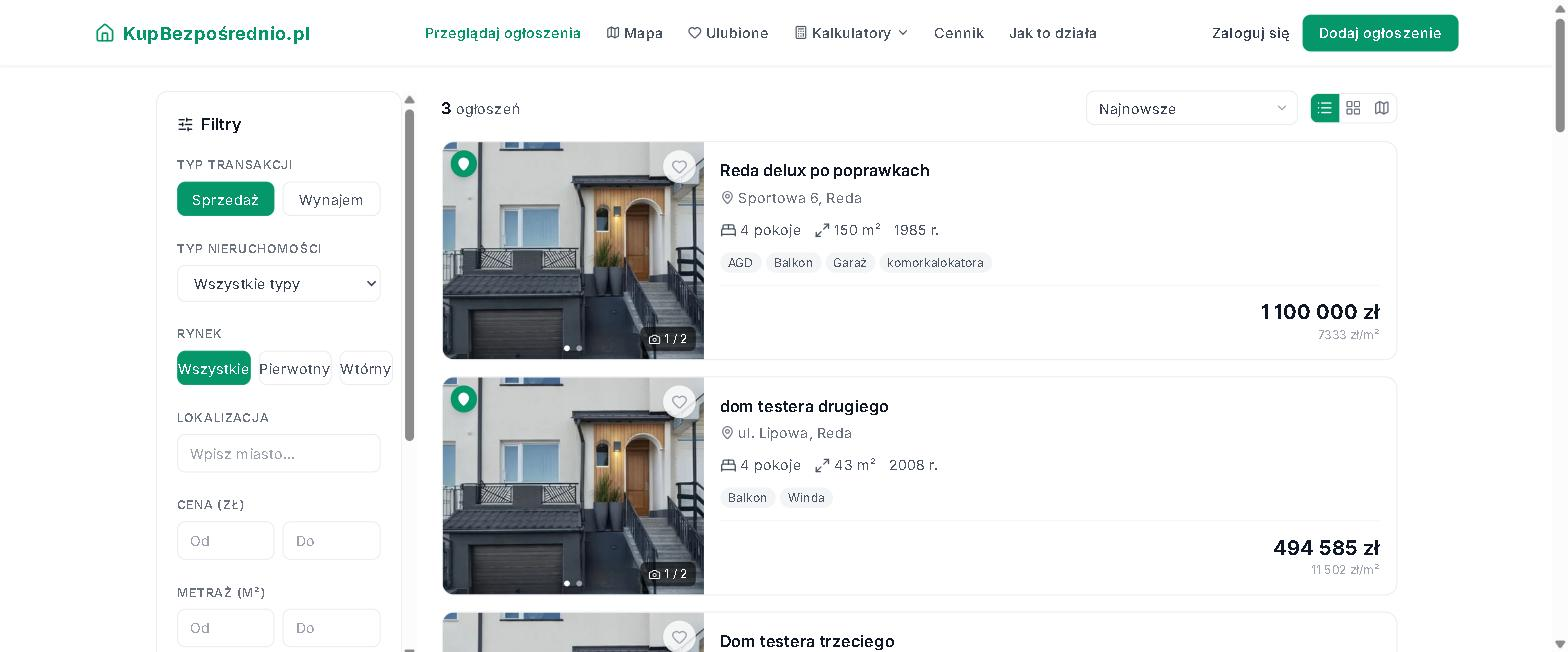
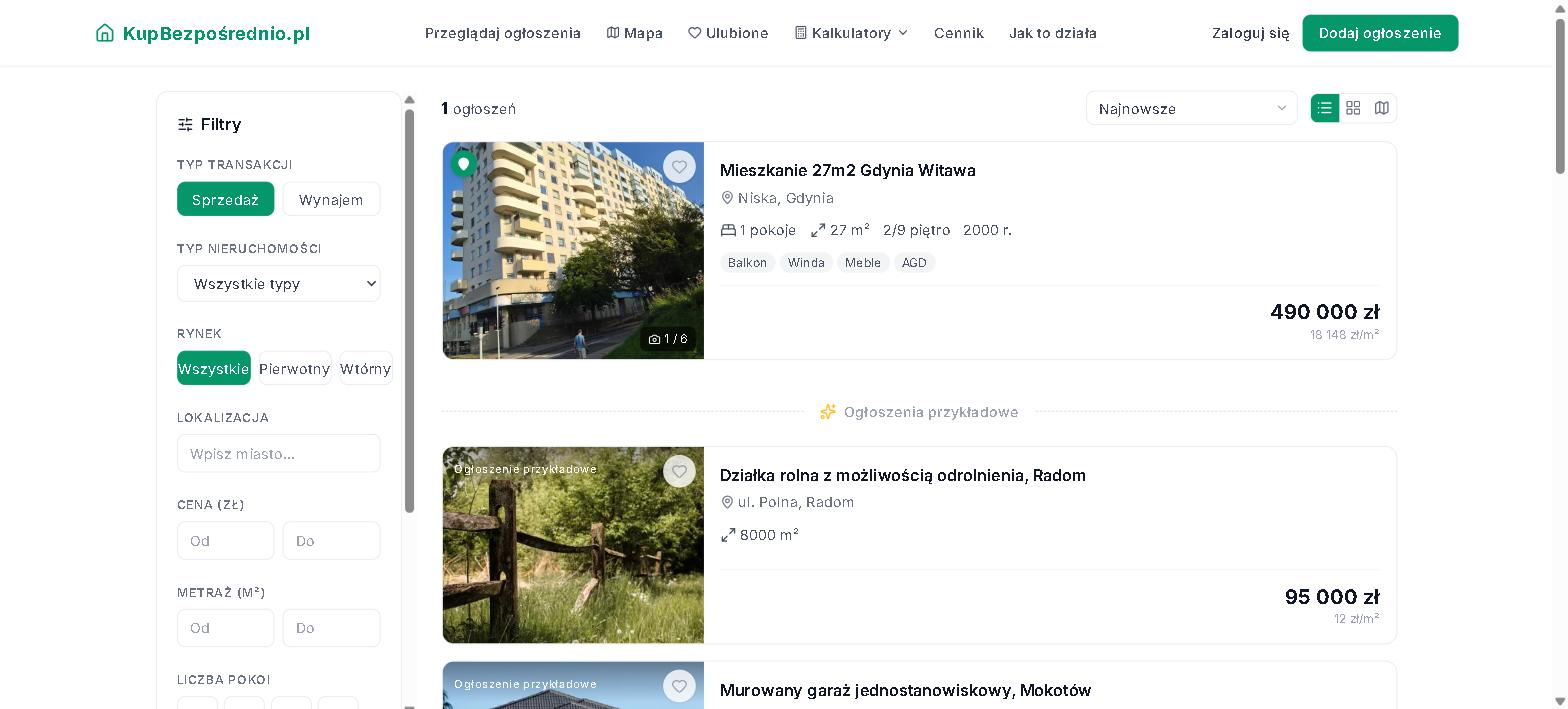
Update hero animation: production screenshots, 6 frames, 4s pacing
Replaced dev-environment screenshots (which showed a logged-in test
account) with fresh logged-out captures from the production
kupbezposrednio.pl site: listings page and a real listing detail with
two photo-gallery frames. Slowed the crossfade to 4s per frame
(24s full cycle) and versioned the image URLs to bust Cloudflare's
edge cache on redeploy.

diff --git a/index.html b/index.html
@@ -18,7 +18,7 @@
 <meta name="twitter:description" content="Portfolio Connect — Kupbezposrednio.pl, BT-Styl, damcar, 21'BROTHERS.">
 <meta name="twitter:image" content="https://ivy202-44591.mikrus.cloud/images/kupbezposrednio.jpg">
 
-<link rel="stylesheet" href="style.css?v=8">
+<link rel="stylesheet" href="style.css?v=11">
 </head>
 <body>
 
@@ -58,11 +58,12 @@
         <a class="mock" href="https://kupbezposrednio.pl" target="_blank" rel="noopener">
           <div class="mock__bar"><span></span><span></span><span></span></div>
           <div class="mock__reel">
-            <img class="mock__screen mock__screen--f1" src="images/hero/frame1-home.jpg" alt="Kupbezposrednio.pl — strona główna">
-            <img class="mock__screen mock__screen--f2" src="images/hero/frame2-listings.jpg" alt="Kupbezposrednio.pl — lista ogłoszeń">
-            <img class="mock__screen mock__screen--f3" src="images/hero/frame3-detail.jpg" alt="Kupbezposrednio.pl — szczegóły ogłoszenia">
-            <img class="mock__screen mock__screen--f4" src="images/hero/frame4-lightbox.jpg" alt="Kupbezposrednio.pl — powiększone zdjęcie">
-            <img class="mock__screen mock__screen--f5" src="images/hero/frame5-map.jpg" alt="Kupbezposrednio.pl — mapa ogłoszeń">
+            <img class="mock__screen mock__screen--f1" src="images/hero/frame1-home.jpg?v=2" alt="Kupbezposrednio.pl — strona główna">
+            <img class="mock__screen mock__screen--f2" src="images/hero/frame2-listings.jpg?v=2" alt="Kupbezposrednio.pl — lista ogłoszeń">
+            <img class="mock__screen mock__screen--f3" src="images/hero/frame3-detail.jpg?v=2" alt="Kupbezposrednio.pl — szczegóły ogłoszenia">
+            <img class="mock__screen mock__screen--f4" src="images/hero/frame4-lightbox.jpg?v=2" alt="Kupbezposrednio.pl — zdjęcie ogłoszenia 2">
+            <img class="mock__screen mock__screen--f4b" src="images/hero/frame4b-lightbox2.jpg?v=2" alt="Kupbezposrednio.pl — zdjęcie ogłoszenia 3">
+            <img class="mock__screen mock__screen--f5" src="images/hero/frame5-map.jpg?v=2" alt="Kupbezposrednio.pl — mapa ogłoszeń">
           </div>
         </a>
         <div class="hero__stats">
@@ -195,6 +196,6 @@
   </div>
 </div>
 
-<script src="script.js?v=8"></script>
+<script src="script.js?v=11"></script>
 </body>
 </html>

diff --git a/style.css b/style.css
@@ -228,19 +228,20 @@ h1, h2, h3 { margin: 0; }
   object-fit: cover;
   object-position: top;
   opacity: 0;
-  animation: mock-crossfade 7.5s infinite;
+  animation: mock-crossfade 24s infinite;
 }
 .mock__screen--f1 { animation-delay: 0s; }
-.mock__screen--f2 { animation-delay: 1.5s; }
-.mock__screen--f3 { animation-delay: 3s; }
-.mock__screen--f4 { animation-delay: 4.5s; }
-.mock__screen--f5 { animation-delay: 6s; }
+.mock__screen--f2 { animation-delay: 4s; }
+.mock__screen--f3 { animation-delay: 8s; }
+.mock__screen--f4 { animation-delay: 12s; }
+.mock__screen--f4b { animation-delay: 16s; }
+.mock__screen--f5 { animation-delay: 20s; }
 
 @keyframes mock-crossfade {
   0% { opacity: 0; }
-  4% { opacity: 1; }
-  16% { opacity: 1; }
-  20% { opacity: 0; }
+  3% { opacity: 1; }
+  13% { opacity: 1; }
+  16% { opacity: 0; }
   100% { opacity: 0; }
 }
 
